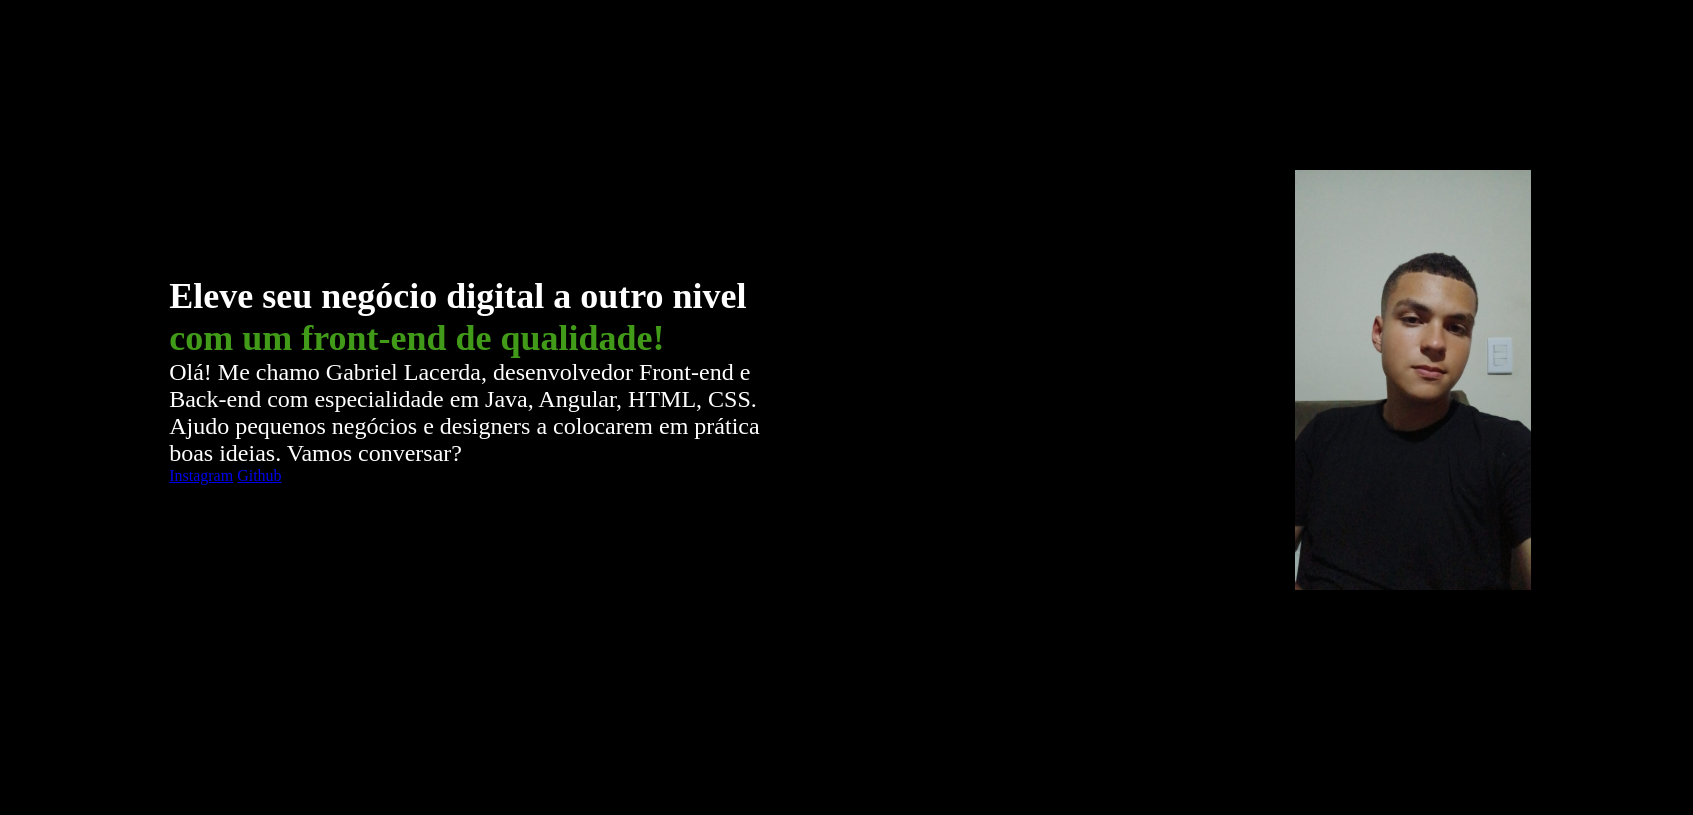
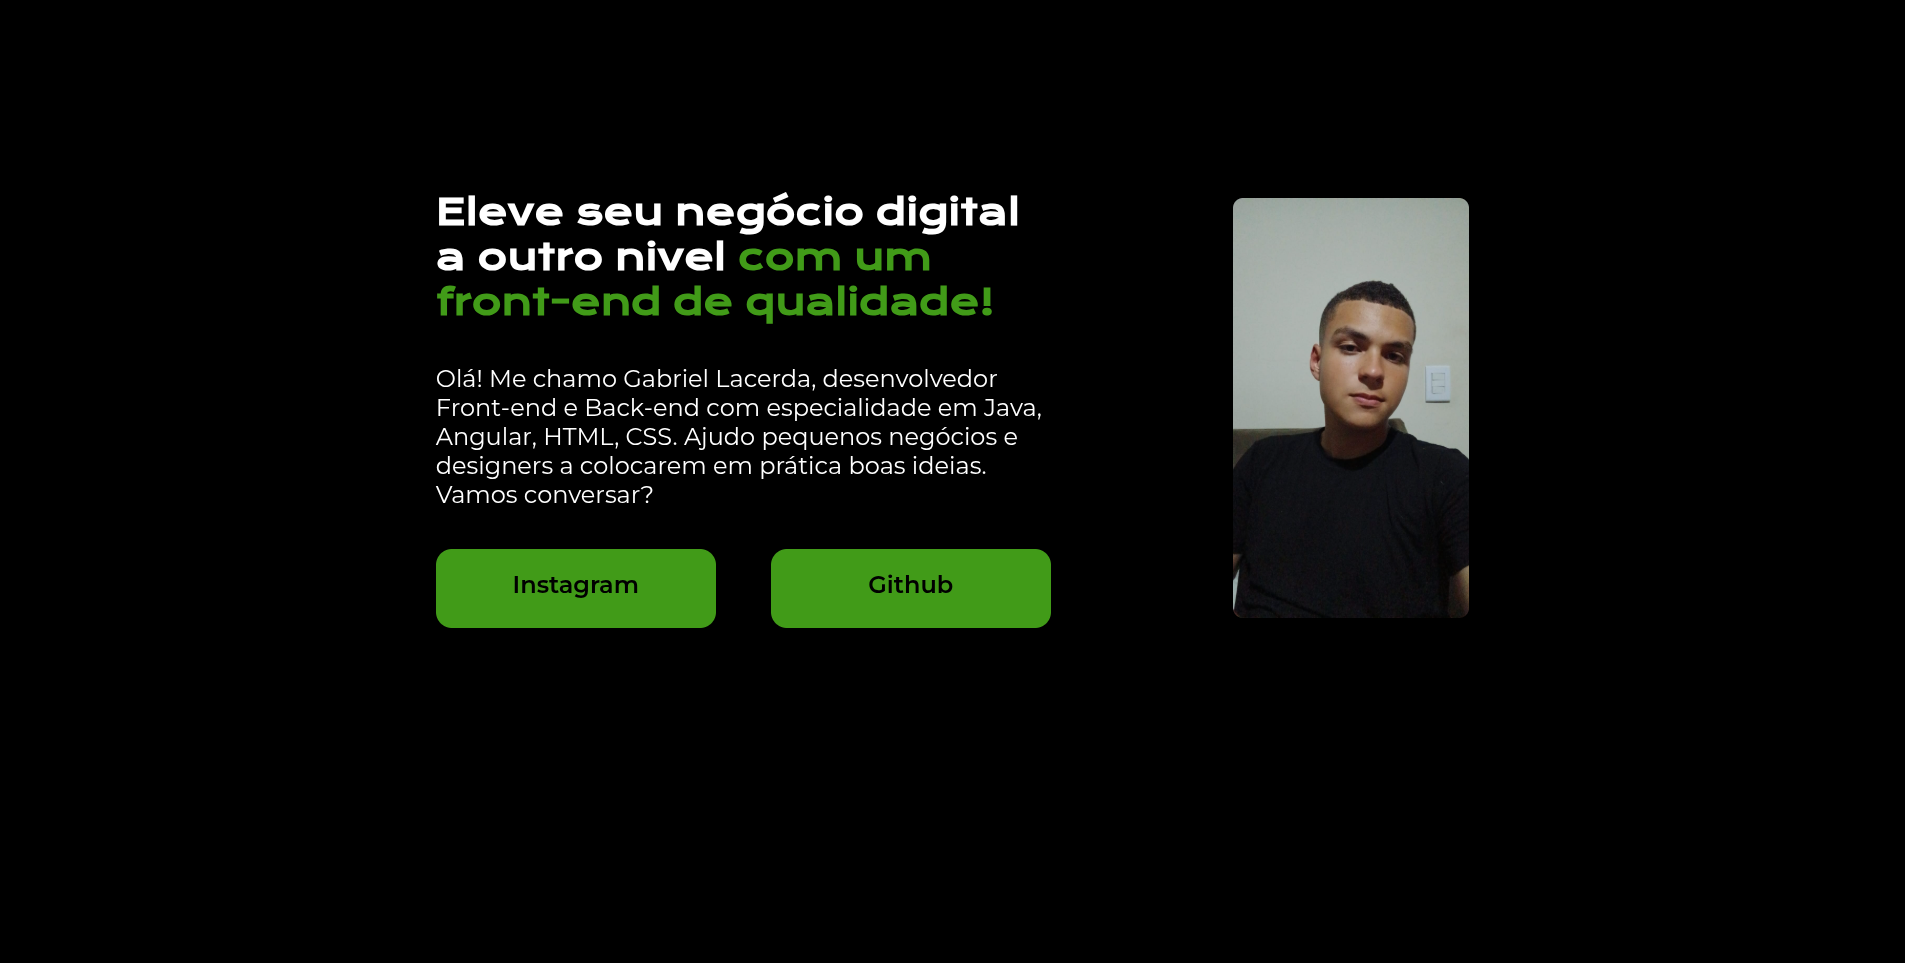
Ajuste do espaçamento, aplicando o gap pela primeira vez

diff --git a/portfolio/style.css b/portfolio/style.css
@@ -14,7 +14,7 @@ body{
 }
 
 main.apresentacao{
-    margin: 10%; 
+    margin: 10% 15%; 
     display: flex;
     align-items: center;
     justify-content: space-between;
@@ -22,6 +22,10 @@ main.apresentacao{
 
 section.apresentacao_de_conteudo{
     width: 615px;
+    display: flex;
+    flex-direction: column;
+    gap: 40px;
+    margin-left: 150px;
 }
 
 h1.titulo{
@@ -51,11 +55,11 @@ a.link_do_botao{
     height: 79px;
     text-align: center;
     font-size: 24px;
-    font-weight: 600px;
     padding: 21.5px;
     text-decoration: none;
     color: black;
     font-family: "Montserrat", sans-serif;
+    font-weight: 600;
 }
 
 img{
@@ -64,4 +68,5 @@ img{
     width: auto;
     height: auto;
     border-radius: 10px;
+    margin-right: 150px;
 }
